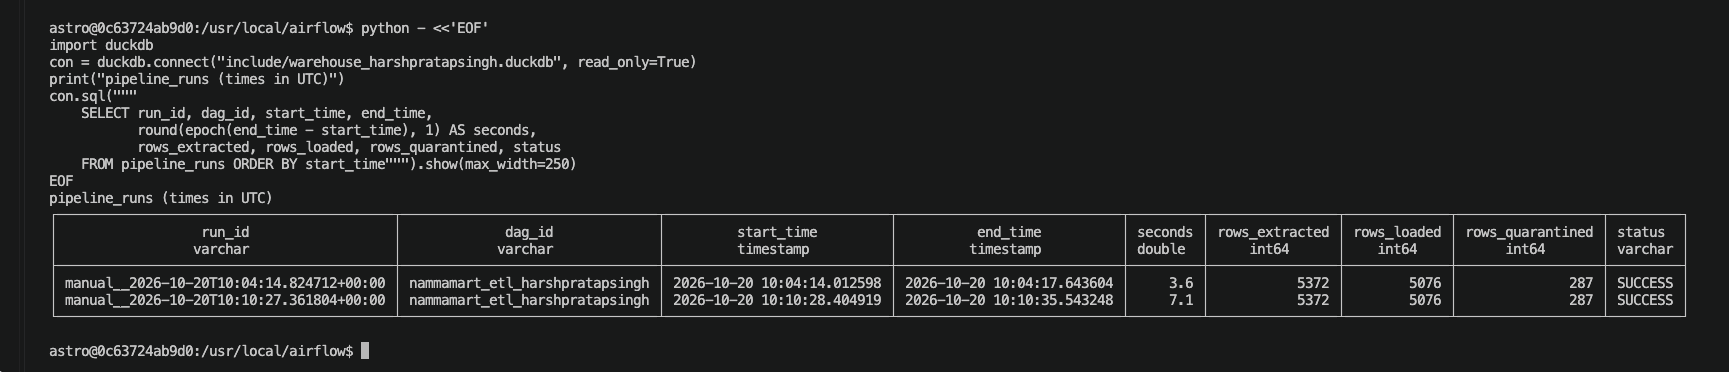
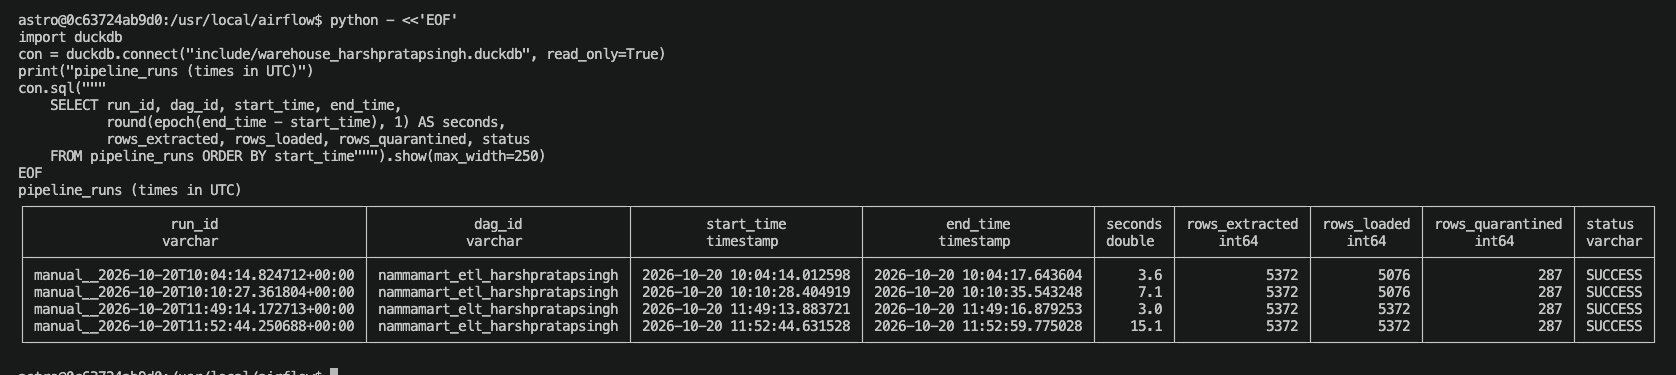
Screenshots: ELT graph (new), both DAGs at 9:00 IST, dq_results and pipeline_runs for both pipelines (retaken)

Changed region(s): [[0.0, 0.0296, 0.9928, 1.0]]

diff --git a/SUBMISSION.md b/SUBMISSION.md
@@ -22,7 +22,7 @@ Status of every item in section 6 of the assignment brief. ✅ done · 🟡 in p
 | 7 | `SUBMISSION.md`: governance answers (Part E) | ⬜ | [Part E](#part-e-data-governance) |
 | 8 | `SUBMISSION.md`: observability results table (Part F) | ⬜ | [Part F](#part-f-observability-tests) |
 | 9 | `SUBMISSION.md`: recommendation (Part G) | ⬜ | [Part G](#part-g-recommendation-to-the-cto) |
-| 10 | Screenshots: both DAGs green in Graph view, 9:00 AM IST schedule, one quarantine file, `dq_results`, `pipeline_runs`, payment reconciliation | 🟡 6 of 7 (ELT graph pending, Part B) | [Screenshots](#screenshots) |
+| 10 | Screenshots: both DAGs green in Graph view, 9:00 AM IST schedule, one quarantine file, `dq_results`, `pipeline_runs`, payment reconciliation | ✅ 7 of 7 | [Screenshots](#screenshots) |
 | 11 | Six business questions, SQL + result, from both pipelines | ✅ All six answered from both pipelines; results identical | [Business questions](#business-questions) |
 | 12 | No API keys, passwords, webhook URLs or unmasked customer data outside `include/data/` | ✅ Checked on every commit | [.gitignore](.gitignore) |
 
@@ -285,6 +285,10 @@ The total of both tables equals the DELIVERED net revenue in `etl_fact_orders` (
 | B.3 Mart layer + run audit | ✅ | `marts.mart_daily_store_kpis` → `mart_category_margin` → `mart_delivery_sla` → `mart_payment_reconciliation` → `mart_payment_mode_revenue` → `mart_top_customers` (task group), `audit_run` | [`marts/mart_*.sql`](include/sql/marts/) |
 | B.4 ETL vs ELT comparison | ✅ | [`analysis/business_questions.py`](analysis/business_questions.py) | [`analysis/sql/`](analysis/sql/) |
 
+Green run in the Airflow UI (Graph view, `staging` and `marts` task groups expanded, all 19 tasks `success`):
+
+![ELT DAG in Graph view, green run](docs/screenshots/02_elt_graph_green.png)
+
 **Extract (B.1).** Each task copies its source file into the run folder (`include/tmp/harshpratapsingh/<run_id>/elt/extract/`) and checks only the header line with Python's `csv` module. Nothing is parsed or cleaned. `extract_orders` also picks up next-day files matching `orders_*_increment.csv`.
 
 **Raw layer (B.1).** `load_raw` loads the five files into `raw_customers`, `raw_products`, `raw_stores`, `raw_orders` and `raw_payments` with DuckDB SQL, in one transaction:
@@ -373,9 +377,9 @@ Every zone matches as well (see the [business questions](#business-questions) se
 
 **Status:** ✅ answered for the ETL DAG; the ELT DAG will use the same settings.
 
-DAG page in the Airflow UI (display timezone +05:30): schedule `0 9 * * 1-6`, next run `2026-10-21 09:00:00` IST.
+Both DAGs in the Airflow UI (display timezone +05:30, bottom-left): schedule `0 9 * * 1-6`, next run `2026-10-21 09:00:00` IST.
 
-![ETL DAG schedule: 0 9 * * 1-6, next run 2026-10-21 09:00 IST](docs/screenshots/03_schedule_9am_ist.png)
+![ETL and ELT DAG schedule: 0 9 * * 1-6, next run 2026-10-21 09:00 IST](docs/screenshots/03_schedule_9am_ist.png)
 
 | Setting | Value | Why |
 |---|---|---|
@@ -422,9 +426,9 @@ The scheduler is not running, so nothing runs at 09:00 and the numbers are not r
 
 Result of a run on 2026-10-20: **110 checks**, all 6 dimensions, **29 FAIL, 14 WARN, 67 PASS**. The failure counts match the [Data Issues Log](#05-data-issues-log) exactly (verified by [`tests/test_nammamart_etl.py`](tests/test_nammamart_etl.py)).
 
-Query result: the `dq_results` scorecard per run, and the checks that did not pass in the latest run:
+Query result: the `dq_results` scorecard of every run of both DAGs, and the latest run of each DAG by quality dimension (ETL and ELT identical):
 
-![Query result: dq_results scorecard per run and failing checks](docs/screenshots/05_dq_results.png)
+![Query result: dq_results scorecard per run and per dimension, both pipelines](docs/screenshots/05_dq_results.png)
 
 **ELT checks (SQL, [`include/sql/common/dq_setup.sql`](include/sql/common/dq_setup.sql) + [`include/sql/staging/`](include/sql/staging/))**
 
@@ -938,7 +942,7 @@ ETL examples from testing on 2026-10-20:
 
 `rows_loaded` counts the rows written to the star schema (dimensions, payments and the batch of fact orders). `rows_extracted` = `rows_loaded` + `rows_quarantined` + 9, because 9 rows of the increment file replace an older version of the same order.
 
-![Query result: pipeline_runs](docs/screenshots/06_pipeline_runs.png)
+![Query result: pipeline_runs for both pipelines](docs/screenshots/06_pipeline_runs.png)
 
 ELT examples from testing on 2026-10-20:
 
@@ -1006,7 +1010,7 @@ Stored in [`docs/screenshots/`](docs/screenshots/).
 | # | Required screenshot | File | Status |
 |---|---|---|---|
 | 1 | ETL DAG in Graph view, green run | [`docs/screenshots/01_etl_graph_green.png`](docs/screenshots/01_etl_graph_green.png) | ✅ |
-| 2 | ELT DAG in Graph view, green run | `docs/screenshots/02_elt_graph_green.png` | ⬜ |
+| 2 | ELT DAG in Graph view, green run | [`docs/screenshots/02_elt_graph_green.png`](docs/screenshots/02_elt_graph_green.png) | ✅ |
 | 3 | Schedule showing 9:00 AM IST and the next run | [`docs/screenshots/03_schedule_9am_ist.png`](docs/screenshots/03_schedule_9am_ist.png) | ✅ |
 | 4 | One quarantine file | [`docs/screenshots/04_quarantine_file.png`](docs/screenshots/04_quarantine_file.png) | ✅ |
 | 5 | Query result: `dq_results` | [`docs/screenshots/05_dq_results.png`](docs/screenshots/05_dq_results.png) | ✅ |
@@ -1015,5 +1019,7 @@ Stored in [`docs/screenshots/`](docs/screenshots/).
 
 Screenshots of tables must not show unmasked customer data. All screenshots above were checked: none shows a name, email or phone number (the quarantine screenshot uses the orders file, which only contains customer IDs).
 
-- **#3** shows the DAG header: schedule `0 9 * * 1-6` and next run `2026-10-21 09:00:00`. The Airflow UI is set to the +05:30 (IST) display timezone, so the next run is shown in IST. Airflow stores it as 03:30 UTC (see [Part C](#part-c-scheduling)).
-- **#5** and **#6** currently show ETL runs only; they will be retaken after Part B so that they include the ELT DAG's rows as well.
+- **#2** shows all 19 ELT tasks green, with the `staging` and `marts` task groups expanded.
+- **#3** shows both DAGs (filtered by the `nammamart` tag) with schedule `0 9 * * 1-6` and next run `2026-10-21 09:00:00`. The Airflow UI is set to the +05:30 (IST) display timezone (bottom-left), so the next run is shown in IST. Airflow stores it as 03:30 UTC (see [Part C](#part-c-scheduling)).
+- **#5** shows the `dq_results` scorecard of every run of both DAGs (110 checks across 6 dimensions each) and, for the latest run of each DAG, the results per quality dimension: ETL and ELT are identical on every line.
+- **#6** shows `pipeline_runs` for both DAGs: ETL loads 5,076 rows (rejected rows go to quarantine files), ELT loads all 5,372 rows into raw and flags the 287 rejected ones in staging.
